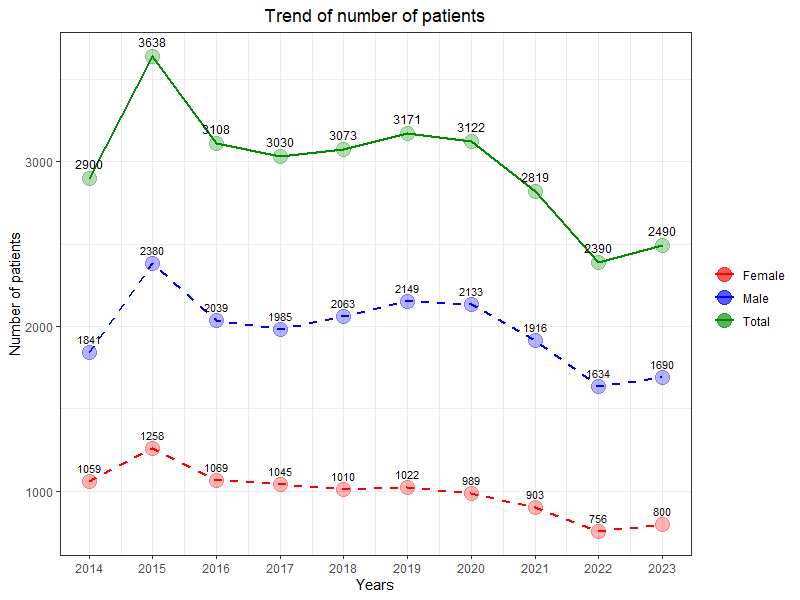
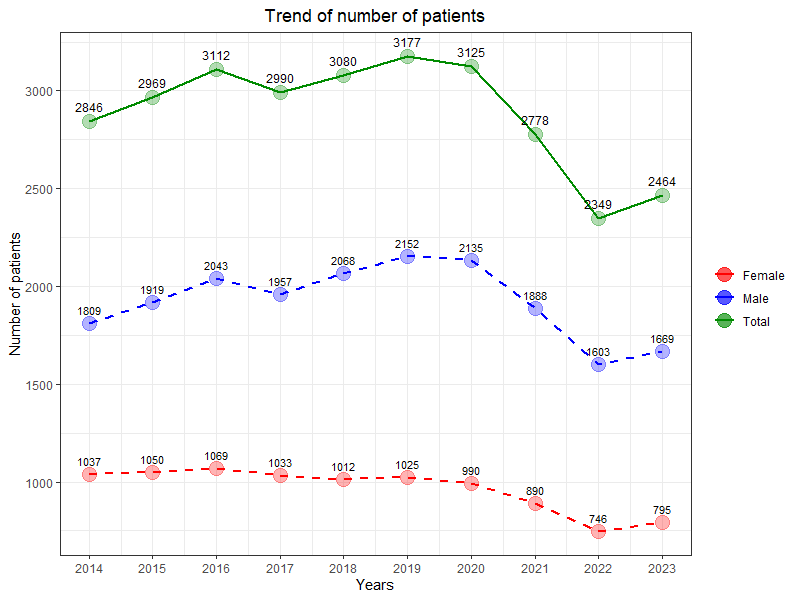
changefile

diff --git a/docs/articles/Summary.html b/docs/articles/Summary.html
@@ -137,10 +137,14 @@ Hospital, which includes both outpatient department (OPD) and inpatient
 department (IPD) data. We combined the OPD and IPD data for each year,
 then removed duplicate patients to determine the number of TB incidences
 from 2014 to 2023, as presented in the figure below.</p>
-<img src="https://raw.githubusercontent.com/Azz247/GeoTB/main/man/figures/TrendAllpt.png" width="80%"><p>The figure shows that the number of patients peaked at 3,638 in 2015,
-then decreased to 3,108 in 2016 and remained stable before decreasing to
-the lowest number of 2,390 in 2022. When divided by gender, it shows the
-same pattern for both male and female trends.</p>
+
+                <br><img src="https://raw.githubusercontent.com/Azz247/GeoTB/main/man/figures/TrendAllpt.png" width="80%"><p>The figure shows that the number of patients increased from 2,846 in
+2014 to 3,112 in 2016, peaking at 3,177 in 2020 before decreasing to a
+low of 2,349 in 2022. When divided by gender, the trend for male
+patients more closely resembles the overall trend compared to the trend
+for female patients. Unlike the male and total trends, the female
+patient count does not show a sharp peak and decline, but rather a more
+stable and slightly downward trend.</p>
 <div class="section level2">
 <h2 id="number-of-patients">Number of patients<a class="anchor" aria-label="anchor" href="#number-of-patients"></a>
 </h2>
@@ -148,7 +152,8 @@ same pattern for both male and female trends.</p>
 2020, followed by a decrease from 2020 to 2023. When divided by gender,
 the overall trend appears to be more influenced by male patients,
 possibly because there are more male patients than female patients.</p>
-<img src="https://raw.githubusercontent.com/Azz247/GeoTB/main/man/figures/NumberPt_IPD.png" width="80%"><p>IPD data show that the number of patients is around 900 to 1,000 per
+
+                <br><img src="https://raw.githubusercontent.com/Azz247/GeoTB/main/man/figures/NumberPt_IPD.png" width="80%"><p>IPD data show that the number of patients is around 900 to 1,000 per
 year, with a slight increase from 2014 to 2019 and a stable trend from
 2019 to 2023. Similar to the OPD data, the overall trend appears to be
 influenced more by the male trend, while the female trend is relatively
@@ -162,7 +167,7 @@ shows a clear decrease, from a median age of 59 years in 2014 to 54
 years in 2023. The trend for male patients decreased from a median age
 of 56 years in 2015 to 53 years in 2018, then increased to 55 years in
 2022.</p>
-<img src="https://raw.githubusercontent.com/Azz247/GeoTB/main/man/figures/PatientAge_IPD.png" width="80%"><p>IPD data show that the trend in the age of female patients is
+<br><img src="https://raw.githubusercontent.com/Azz247/GeoTB/main/man/figures/PatientAge_IPD.png" width="80%"><p>IPD data show that the trend in the age of female patients is
 decreasing, from a median age of 61.5 years in 2014 to 58 years in 2023,
 while the trend in the age of male patients is relatively stable.</p>
 </div>
